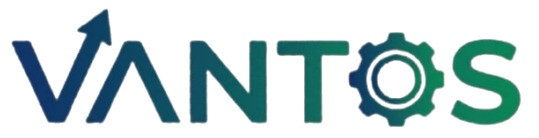
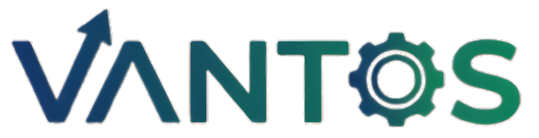
cambio imagen tamaño

diff --git a/app/page.tsx b/app/page.tsx
@@ -14,8 +14,8 @@ export default function Home() {
             <Image
               src="/images/vantos.png"
               alt="Logo Vantos"
-              width={539}
-              height={138}
+              width={389}
+              height={100}
               className="w-full h-auto object-contain rounded-lg"
             />
             </header>
